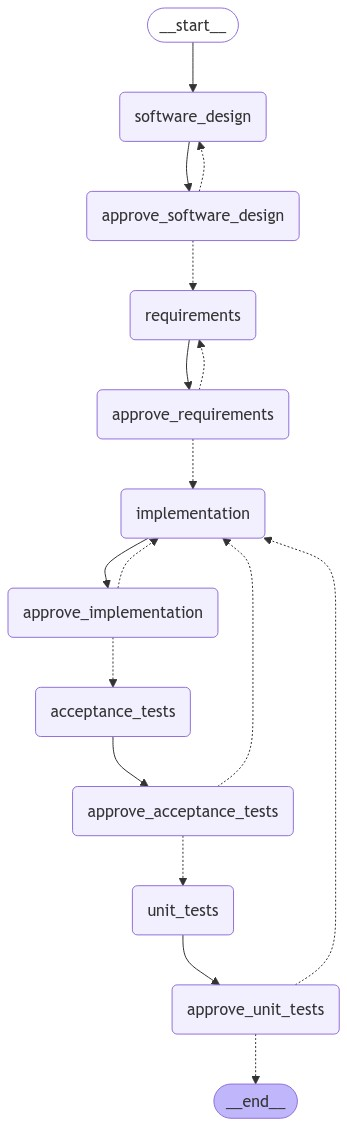
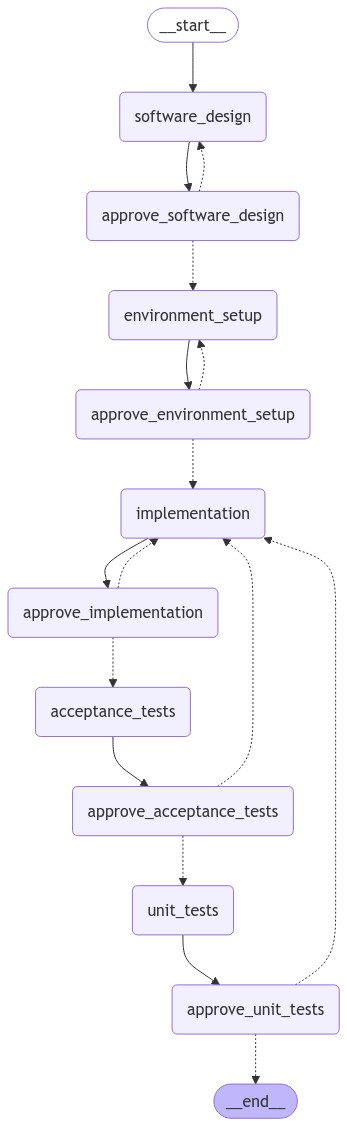
env setup and output file

diff --git a/graph.py b/graph.py
@@ -7,16 +7,17 @@ from prompts import *
 from langchain_core.messages import HumanMessage
 import logging
 from langchain_openai import ChatOpenAI
+from langchain_anthropic import ChatAnthropic
 
 # need to find better place for this
 llm = ChatOpenAI(model_name="gpt-4o", temperature=0)
+#llm = ChatAnthropic(model_name='claude-3-5-sonnet-20241022', temperature=0)
 
 # Define the state of our graph
 class GraphState(TypedDict):
     """
     Represents the state of our graph.
     """
-    prompt: str
     messages: List[str]
     approvals: Dict[str, bool]
     documents: Dict[str, Union[str, Document, Dict[str, str]]]
@@ -27,7 +28,7 @@ class Design(BaseModel):
     UML_sequence: str = Field(description="UML sequence diagram using mermaid syntax")
     architecture_design: str = Field(description="architecture design as a text based representation of the file tree")
 
-class Requirements(BaseModel):
+class EnvironmentSetup(BaseModel):
     requirements: str = Field(description="All the expected dependencies that can be written to a file named requirements.txt")
 
 class Implementation(BaseModel):
@@ -62,37 +63,37 @@ def approve_software_design(state: GraphState):
     state['messages'] = ["UML class diagram approved"] # llm reponse message
     return state
 
-def route_software_design(state: GraphState) -> Literal['requirements', 'software_design']:
+def route_software_design(state: GraphState) -> Literal['environment_setup', 'software_design']:
     if all(state["approvals"].values()):
-        return "requirements"
+        return "environment_setup"
     else:
         return "software_design"
 
-def requirements(state: GraphState):
+def environment_setup(state: GraphState):
     """
     Based on the design documents, determine the requirements.txt file.
     """
-    logging.info("---REQUIREMENTS---")
-    prompt = REQUIREMENTS_PROMPT.format(**state["documents"])
-    structured_llm = llm.with_structured_output(Requirements)
+    logging.info("---environment_setup---")
+    prompt = ENVIRONMENT_SETUP_PROMPT.format(**state["documents"])
+    structured_llm = llm.with_structured_output(EnvironmentSetup)
     reqs = structured_llm.invoke([HumanMessage(content=prompt)])
     state["documents"].update(reqs.dict())
     return state
 
-def approve_requirements(state: GraphState):
+def approve_environment_setup(state: GraphState):
     """
     Test the requirements.txt file.
     """
-    logging.info("------APPROVE REQUIREMENTS---")
+    logging.info("------APPROVE ENVIRONMENT SETUP---")
     # need a shell to run the requirements.txt file and see if it works
     state['approvals'].update({"requirements": True})
     return state
 
-def route_requirements(state: GraphState) -> Literal['implementation', 'requirements']:
+def route_environment_setup(state: GraphState) -> Literal['implementation', 'environment_setup']:
     if all(state["approvals"].values()):
         return "implementation"
     else:
-        return "requirements"
+        return "environment_setup"
 
 def implementation(state: GraphState):
     """
@@ -180,8 +181,8 @@ def build_graph():
     # nodes
     graph.add_node("software_design", software_design)
     graph.add_node("approve_software_design", approve_software_design)
-    graph.add_node("requirements", requirements)
-    graph.add_node("approve_requirements", approve_requirements)
+    graph.add_node("environment_setup", environment_setup)
+    graph.add_node("approve_environment_setup", approve_environment_setup)
     graph.add_node("implementation", implementation)
     graph.add_node("approve_implementation", approve_implementation)
     graph.add_node("acceptance_tests", acceptance_tests)
@@ -193,8 +194,8 @@ def build_graph():
     graph.add_edge(START, "software_design")
     graph.add_edge("software_design", "approve_software_design")
     graph.add_conditional_edges("approve_software_design", route_software_design)
-    graph.add_edge("requirements", "approve_requirements")
-    graph.add_conditional_edges("approve_requirements", route_requirements)
+    graph.add_edge("environment_setup", "approve_environment_setup")
+    graph.add_conditional_edges("approve_environment_setup", route_environment_setup)
     graph.add_edge("implementation", "approve_implementation")
     graph.add_conditional_edges("approve_implementation", route_implementation)
     graph.add_edge("acceptance_tests", "approve_acceptance_tests")

diff --git a/main.py b/main.py
@@ -2,10 +2,10 @@ from dotenv import load_dotenv
 import os
 import logging
 from langsmith import utils
-from langchain_openai import ChatOpenAI
 from graph import build_graph
 from prompts import SAMPLE_PRD
 import argparse
+import json
 
 
 # set logging level
@@ -18,6 +18,7 @@ def main():
     """
     parser = argparse.ArgumentParser(description="Run the SWEGraph with a specified PRD.")
     parser.add_argument("--prd_path", type=str, default=None, help="Path to the PRD file")
+    parser.add_argument("--out_path", type=str, default="output.json", help="Path to the output file")
     args = parser.parse_args()
 
     if args.prd_path is None:
@@ -28,7 +29,11 @@ def main():
 
     graph = build_graph()
     graph.get_graph().draw_mermaid_png(output_file_path="images/swegraph.png")
-    graph.invoke({"documents": {'PRD': prd_content}})
+    final_state = graph.invoke({"documents": {'PRD': prd_content}})
+
+    # save the final state to a json file
+    with open(args.out_path, 'w') as file:
+        json.dump(final_state, file, indent=4)
 
 
 if __name__ == "__main__":

diff --git a/prompts.py b/prompts.py
@@ -183,7 +183,7 @@ architecture_design.md
 {architecture_design}
 """
 
-REQUIREMENTS_PROMPT = """
+ENVIRONMENT_SETUP_PROMPT = """
 
 Generate a requirements.txt pip-style to satisfy all the expected dependencies and include unittest as a requirement.
 Return a dictionary with key "requirements" and value should be a string that can be written to a file named requirements.txt
